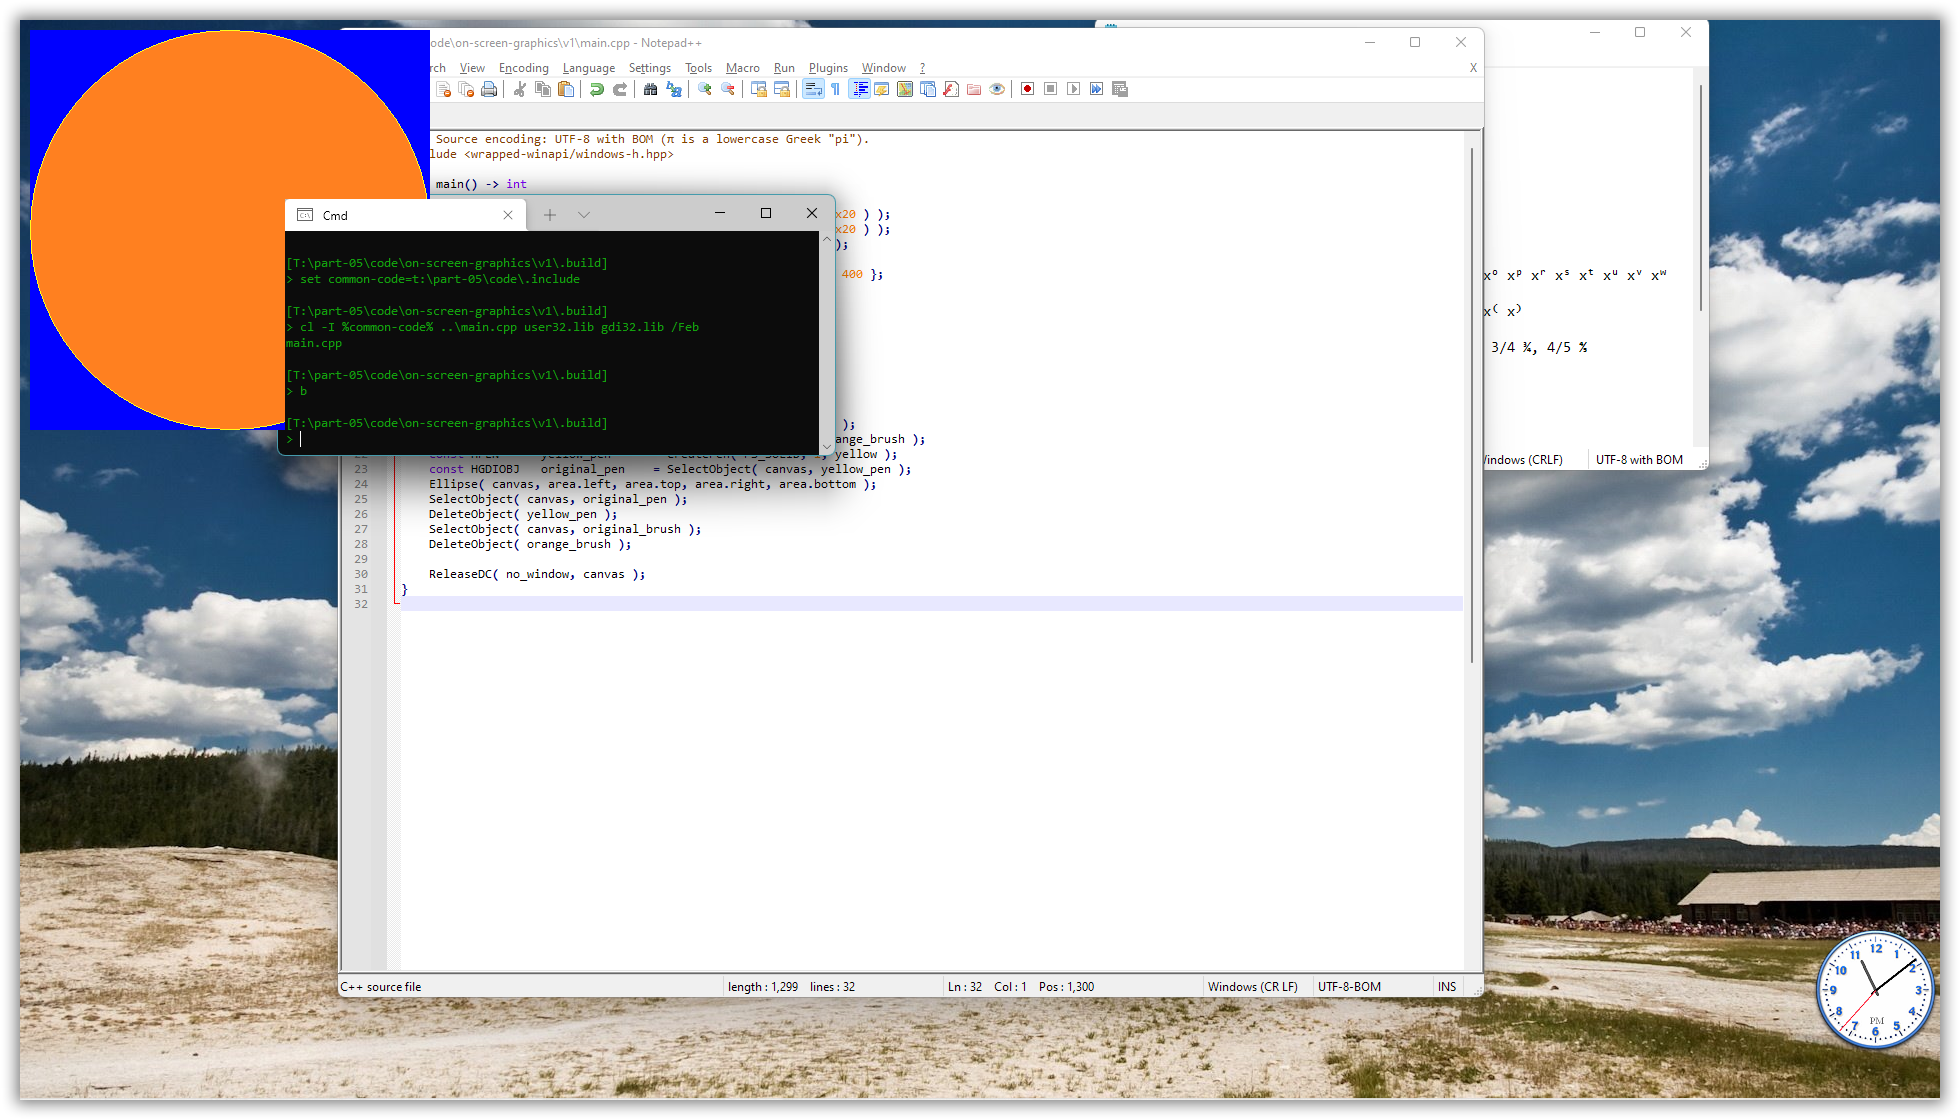
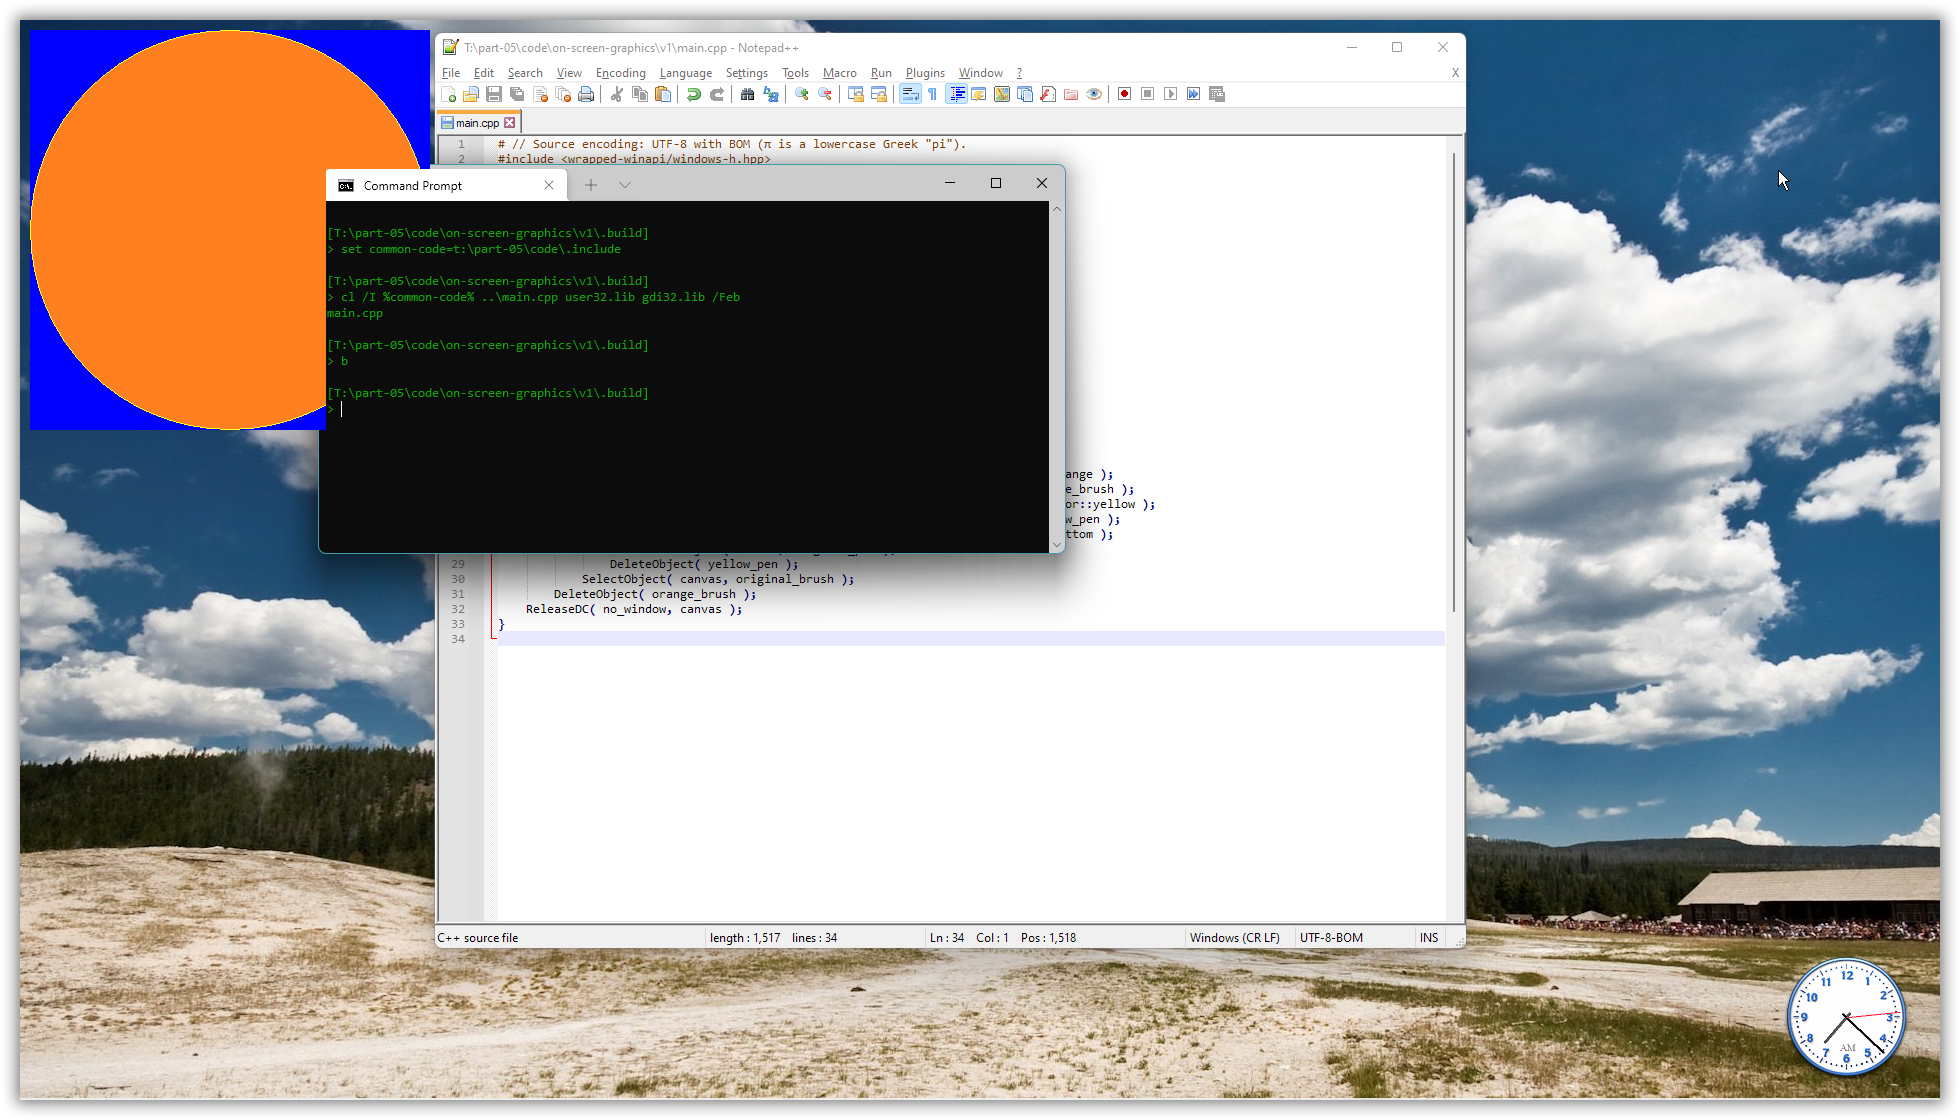
-

Changed region(s): [[0.1245, 0.0, 0.8714, 0.9375], [0.9026, 0.8125, 0.9959, 0.9688]]

diff --git a/docs/part-05/code/on-screen-graphics/v2/main.cpp b/docs/part-05/code/on-screen-graphics/v2/main.cpp
@@ -4,9 +4,6 @@
 #include <type_traits>
 using std::is_same_v;
 
-template< class T, class Arg >
-constexpr is_of_type_( Arg ) -> bool { return is_same_v< T, Arg >; }
-
 static_assert( is_of_type_<COLORREF>( RGB(0,0,0) ) );   // RGB() → COLORREF 
 static_assert( is_same_v<COLORREF, DWORD> );            // COLORREF is 32-bit unsigned.
 namespace color {

diff --git a/docs/part-05.md b/docs/part-05.md
@@ -52,32 +52,34 @@ By default a device context typically has a black pen and a white brush. To draw
 # // Source encoding: UTF-8 with BOM (π is a lowercase Greek "pi").
 #include <wrapped-winapi/windows-h.hpp>
 
+// COLORREF is 32-bit unsigned.
+namespace color {
+    constexpr COLORREF  orange      = RGB( 0xFF, 0x80, 0x20 );
+    constexpr COLORREF  yellow      = RGB( 0xFF, 0xFF, 0x20 );
+    constexpr COLORREF  blue        = RGB( 0, 0, 0xFF );
+}  // namespace color
+
 auto main() -> int
 {
-    constexpr auto  orange      = COLORREF( RGB( 0xFF, 0x80, 0x20 ) );
-    constexpr auto  yellow      = COLORREF( RGB( 0xFF, 0xFF, 0x20 ) );
-    constexpr auto  blue        = COLORREF( RGB( 0, 0, 0xFF ) );
     constexpr auto  no_window   = HWND( 0 );
     constexpr auto  area        = RECT{ 10, 10, 10 + 400, 10 + 400 };
-
+    
     const HDC canvas = GetDC( no_window );
+        // Fill the background with blue.
+        const HBRUSH blue_brush = CreateSolidBrush( color::blue );
+            FillRect( canvas, &area, blue_brush );
+        DeleteObject( blue_brush );
 
-    // Fill the background with blue.
-    const HBRUSH blue_brush = CreateSolidBrush( blue );
-    FillRect( canvas, &area, blue_brush );
-    DeleteObject( blue_brush );
-
-    // Draw a yellow circle filled with orange.
-    const HBRUSH    orange_brush    = CreateSolidBrush( orange );
-    const HGDIOBJ   original_brush  = SelectObject( canvas, orange_brush );
-    const HPEN      yellow_pen      = CreatePen( PS_SOLID, 1, yellow );
-    const HGDIOBJ   original_pen    = SelectObject( canvas, yellow_pen );
-    Ellipse( canvas, area.left, area.top, area.right, area.bottom );
-    SelectObject( canvas, original_pen );
-    DeleteObject( yellow_pen );
-    SelectObject( canvas, original_brush );
-    DeleteObject( orange_brush );
-
+        // Draw a yellow circle filled with orange.
+        const HBRUSH    orange_brush                = CreateSolidBrush( color::orange );
+            const HGDIOBJ   original_brush          = SelectObject( canvas, orange_brush );
+                const HPEN      yellow_pen          = CreatePen( PS_SOLID, 1, color::yellow );
+                    const HGDIOBJ   original_pen    = SelectObject( canvas, yellow_pen );
+                        Ellipse( canvas, area.left, area.top, area.right, area.bottom );
+                    SelectObject( canvas, original_pen );
+                DeleteObject( yellow_pen );
+            SelectObject( canvas, original_brush );
+        DeleteObject( orange_brush );
     ReleaseDC( no_window, canvas );
 }
 ```
